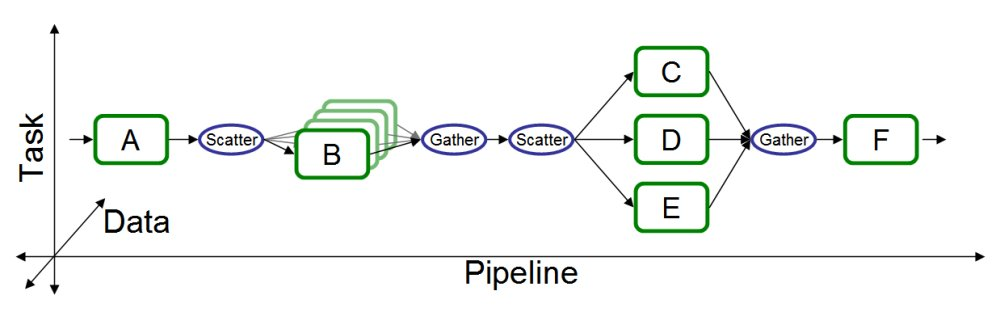
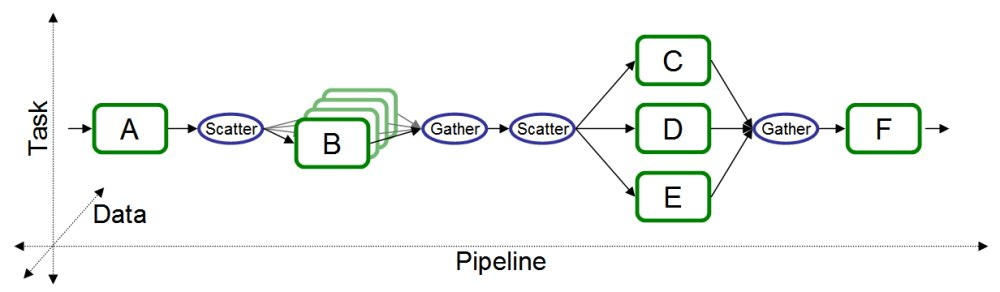
fixed figure and added caption
git-svn-id: https://svn.csail.mit.edu/streamit/trunk@10125 fb122d4e-f3b4-4596-99d2-990b948fa53d

Changed region(s): [[0.0, 0.0616, 0.992, 0.9555], [0.279, 0.524, 0.372, 0.5856]]

diff --git a/streams/docs/csail-abstract-multicore-07/mgordon.html b/streams/docs/csail-abstract-multicore-07/mgordon.html
@@ -26,12 +26,12 @@ general purpose multicores to emerging flexible graphics hardware.</p>
 difficult. Application developers have long hoped for new high-level
 programming models, with associated compiler and runtime technologies,
 in order to produce efficient, portable, and scalable code for
-coarse-grained parallel architectures. As we will see, the stream
-programming paradigm offers a promising high-level approach for
-application development targeting parallel machines.  Our research
-focuses on language, compiler, and runtime technologies for the StreamIt
-programming language [3], a streaming language we are
-developing in the Compilers Group at MIT (COMMIT).</p>
+coarse-grained parallel architectures. The stream programming paradigm
+offers a promising high-level approach for application development
+targeting parallel machines.  Our research focuses on language,
+compiler, and runtime technologies for the StreamIt programming
+language [3], a streaming language we are developing in the Compilers
+Group at MIT (COMMIT).</p>
 
 <h5>Background</h5>
 
@@ -53,33 +53,39 @@ parallel execution.<p>
 </p>
 <p>
 <center>
-<b>Figure 1</b>: Example stream graph demonstrating task, data, and
-pipeline parallelism.  Filters are denoted by green boxes and
-data-reorganization nodes are denoted by blue ovals. Filter B is
-stateless and can be data-parallelized by duplicating the filter
-(shown by the lighter boxes).
+<b>Figure 1</b>: Example stream graph with parallelism axes. Filters
+are denoted by green boxes and data-reorganization nodes are denoted
+by blue ovals. Pipeline parallelism is present between filters in the
+horizontal dimension, task parallelism in the vertical dimension, and
+data parallelism in the perceived depth dimension.  Data parallelism
+is exploited only in Filter B.  Filter B is stateless and can be
+data-parallelized by duplicating the filter (duplicates denoted by the
+lighter boxes). 
 </center>
 </p>
 
 <p>StreamIt directly exposes three types of coarse-grained
-parallelism: task, data, and pipeline (see Figure 1). Task parallelism
-refers to pairs of filters that are on different parallel branches of
-the original stream graph, as written by the programmer. That is, the
-output of each filter never reaches the input of the other. In stream
-programs, task parallelism reflects logical parallelism in the
+parallelism: task, data, and pipeline. Conceptually, each type of
+parallelism can be is expressed on an independent axis of a stream
+graph (see Figure 1).  Task parallelism refers to pairs of filters
+that are on different parallel branches of the original stream graph,
+as written by the programmer (Filters C, D, and E in Filter 1). That
+is, the output of each filter never reaches the input of the other. In
+stream programs, task parallelism reflects logical parallelism in the
 underlying algorithm. Data parallelism refers to any filter that has
 no dependences between one execution and the next. Such "stateless"
 filters offer unlimited data parallelism, as different instances of
-the filter can be spread across any number of computation units.
-StreamIt, unlike many other streaming languages, naturally supports
-pipeline parallelism [1].  Pipeline parallelism applies to chains of
-producers and consumers that are directly connected in the stream
-graph. Each type of parallelism has advantages and disadvantages. For
-example, exploiting data parallelism is straightforward and produces a
-load-balanced mapping. However, by itself, data parallelism requires
-global communication and synchronization. A stream-aware system can
-determine the correct granularity and combination of parallelism for
-high efficiency.<p>
+the filter can be spread across any number of computation units
+(Filter B in Figure 1).  StreamIt, unlike many other streaming
+languages, naturally supports pipeline parallelism [1].  Pipeline
+parallelism applies to chains of producers and consumers that are
+directly connected in the stream graph (e.g., Filters A and B in
+Figure 1). Each type of parallelism has advantages and
+disadvantages. For example, exploiting data parallelism is
+straightforward and produces a load-balanced mapping. However, by
+itself, data parallelism requires global communication and
+synchronization. A stream-aware system can determine the correct
+granularity and combination of parallelism for high efficiency.<p>
 
 <h5>Compiler Techniques</h5> 
 
@@ -110,7 +116,7 @@ the outer loop around the entire stream graph.</p>
 
 
 
-Outline:
+<h5>Outline:</h5>
 
 Introduction
     Multicores are here
